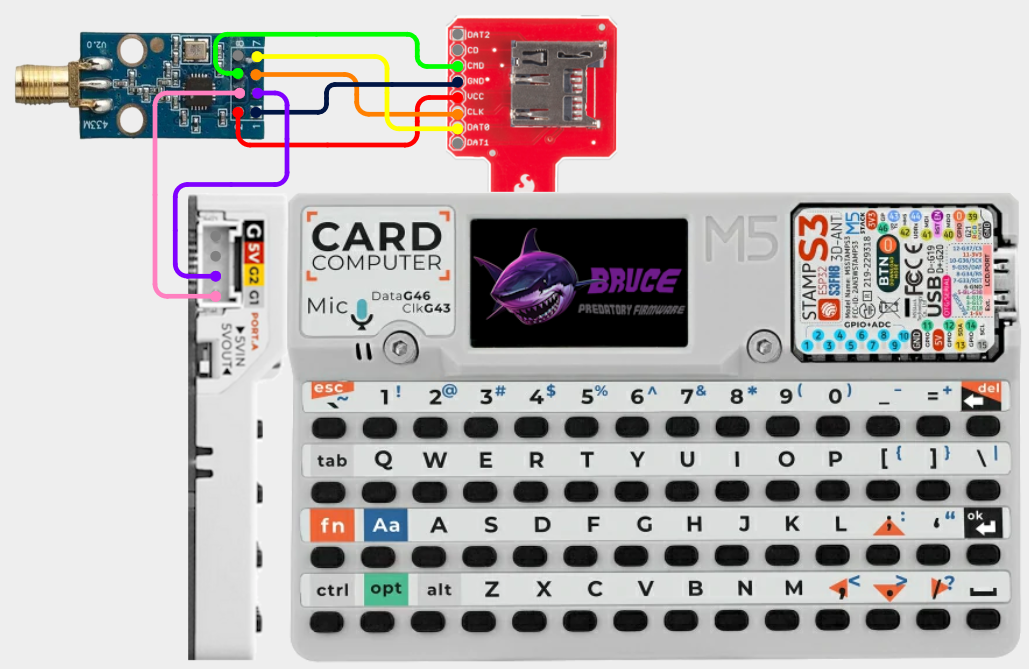
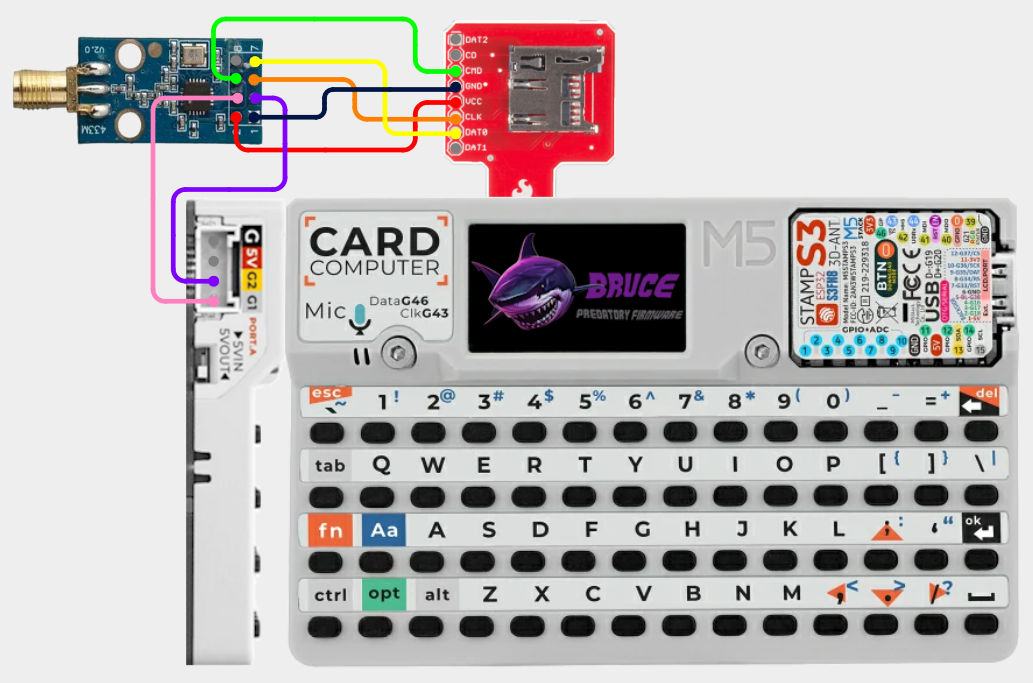
Add pins tables, split Cardputers and document shared/legacy SPI for M5Stick CC1101/NRF24

Changed region(s): [[0.0, 0.0, 0.9951, 1.0]]

diff --git a/docs/wiring-diagrams/m5stickc/cc1101-nrf24.md b/docs/wiring-diagrams/m5stickc/cc1101-nrf24.md
@@ -9,10 +9,65 @@ title: CC1101/NRF24
 * [NRF24](../../external-modules/nrf24.md#modules)
 
 
-## Wiring Diagram
+## Shared SPI
+
+!!! info
+    Please ensure you select Shared SPI
+
+    **CC1101:** `RF -> Config -> RF Module -> CC1101 (Shared SPI)`
+
+    **NRF24:** `NRF24 -> Config Pins -> NRF24 (Shared SPI)`
+
+### Pins
+
+| CC1101/NRF | M5StickC |
+| -: | - |
+| GND - 1 | GND |
+| VCC - 2 | 3V3 |
+| GDO0 - 3 | G32 |
+| CSN - 4 | G33 |
+| SCK - 5 | G0 |
+| MOSI - 6 | G26 |
+| MISO/GDO1 - 7 | G36/G25 |
+| DGO2 - 8 | Not Connected |
+
+
+### Wiring Diagram
+
+The diagram shows a CC1101, the wiring is the same for an NRF24.
+
+[View on Cirkit Designer](https://app.cirkitdesigner.com/project/27d869ec-fe6b-433d-9994-5d58fa3c5da3)
+
+![M5StickC - CC1101](m5stickc-cc1101-shared-spi.png){ width="400" }
+
+
+## Legacy SPI
+
+!!! info
+    Please ensure you select Legacy SPI
+
+    **CC1101:** `RF -> Config -> RF Module -> CC1101 (Legacy SPI)`
+
+    **NRF24:** `NRF24 -> Config Pins -> NRF24 (Legacy SPI)`
+
+### Pins
+
+| CC1101/NRF | M5StickC |
+| -: | - |
+| GND - 1 | GND |
+| VCC - 2 | 3V3 |
+| GDO0 - 3 | G36/G25 |
+| CSN - 4 | G26 |
+| SCK - 5 | G0 |
+| MOSI - 6 | G32 |
+| MISO/GDO1 - 7 | G33 |
+| DGO2 - 8 | Not Connected |
+
+
+### Wiring Diagram
 
 The diagram shows a CC1101, the wiring is the same for an NRF24.
 
 [View on Cirkit Designer](https://app.cirkitdesigner.com/project/1783b122-cb5d-41d4-96aa-12769733b86f)
 
-![M5StickC - CC1101](m5stickc-cc1101.png){ width="400" }
+![M5StickC - CC1101](m5stickc-cc1101-legacy-spi.png){ width="400" }

diff --git a/docs/wiring-diagrams/cardputer/gps.md b/docs/wiring-diagrams/cardputer/gps.md
@@ -7,17 +7,7 @@ title: GPS
 
 More information GPS modules can be found [here](../../external-modules/gps.md).
 
-
-### Cardputer
-
-**Default Pins:** RX=1 TX=2 follow wiring shown [here](#cardputer_1)
-
-
-### Cardputer Adv
-
-**Default Pins:** RX=15 TX=13 follow wiring shown [here](#cardputer-adv_1)
-
-**Alternative Pins:** RX=33 TX=32 follow wiring shown [here](#cardputer_1)
+**Default Pins:** RX=1 TX=2
 
 
 ## Items Needed
@@ -25,23 +15,20 @@ More information GPS modules can be found [here](../../external-modules/gps.md).
 * [GPS Module](../../external-modules/gps.md#modules)
 
 
-## Wiring Diagram
+## Pins
 
-### Cardputer
+| GPS | Cardputer |
+| -: | - |
+| VCC/5V - 1 | 5V |
+| RX - 2 | G2 |
+| TX - 3 | G1 |
+| GND - 4 | GND |
+
+
+## Wiring Diagram
 
 [View on Cirkit Designer](https://app.cirkitdesigner.com/project/70897d29-5d8f-46f0-995e-28ccf1f0e660)
 
 ![Cardputer - GPS](cardputer-gps.png){ width="400" }
 
 ![Cardputer - GPS](cardputer-gps.jpg){ width="400" }
-
-
-### Cardputer Adv
-
-This shows wiring for the [default pins](#cardputer-adv) you can wire up using the [alternative pins](#cardputer-adv) using the [Cardputer](#cardputer) diagram.
-
-[View on Cirkit Designer](https://app.cirkitdesigner.com/project/bb5fd016-9079-4cb4-a977-b6764aa94f67)
-
-![Cardputer Adv - GPS](cardputer-adv-gps.png){ width="400" }
-
-![Cardputer Adv - GPS](cardputer-adv-gps.jpg){ width="400" }

diff --git a/docs/wiring-diagrams/m5stickc/sd-card-and-cc1101-nrf24.md b/docs/wiring-diagrams/m5stickc/sd-card-and-cc1101-nrf24.md
@@ -14,13 +14,41 @@ title: SD Card and CC1101/NRF24
 * [NRF24](../../external-modules/nrf24.md#modules)
 
 
+## Pins
+
+!!! info
+    Please check the wiring diagram below for full details of connections
+
+
+| CC1101/NRF | M5StickC |
+| -: | - |
+| GND - 1 | GND |
+| VCC - 2 | 3V3 |
+| GDO0 - 3 | G32 |
+| CSN - 4 | G33 + Connection to resistor -> transistor (base) |
+| SCK - 5 | G0 |
+| MOSI - 6 | G26 |
+| MISO/GDO1 - 7 | G36/G25 |
+| DGO2 - 8 | Not Connected |
+
+| SD Card Module | M5StickC |
+| -: | - |
+| 3V3 - 1 | 3V3 |
+| CS - 2 | Transistor (collector) |
+| MOSI - 3 | G26 |
+| CLKK - 4 | G0 |
+| MISO - 5 | G36/G25 |
+| GND - 6 | GND |
+
+
 ## Wiring Diagram
 
 !!! info
+    Please ensure you select Shared SPI
 
-    This setup needs a change to the configuration to work:
+    **CC1101:** `RF -> Config -> RF Module -> CC1101 (Shared SPI)`
 
-    `RF -> Config -> CC1101 (Shared SPI)`
+    **NRF24:** `NRF24 -> Config Pins -> NRF24 (Shared SPI)`
 
 The diagram shows a CC1101, the wiring is the same for an NRF24.
 

diff --git a/docs/wiring-diagrams/cardputer-adv/gps.md b/docs/wiring-diagrams/cardputer-adv/gps.md
@@ -1,0 +1,38 @@
+---
+title: GPS
+---
+# Cardputer Adv - GPS
+
+## Configuration 
+
+More information GPS modules can be found [here](../../external-modules/gps.md).
+
+**Default Pins:** RX=15 TX=13
+
+**Alternative Pins:** RX=33 TX=32 follow wiring shown [here](../cardputer/gps.md#wiring-diagram)
+
+
+## Items Needed
+
+* [GPS Module](../../external-modules/gps.md#modules)
+
+
+## Pins
+
+| GPS | Cardputer Adv |
+| -: | - |
+| VCC/5V - 1 | 5V |
+| RX - 2 | G13 |
+| TX - 3 | G15 |
+| GND - 4 | GND |
+
+
+## Wiring Diagram
+
+This shows wiring for the [default pins](#configuration) you can wire up using the [alternative pins](#configuration) using the [Cardputer](../cardputer/gps.md#wiring-diagram) diagram.
+
+[View on Cirkit Designer](https://app.cirkitdesigner.com/project/bb5fd016-9079-4cb4-a977-b6764aa94f67)
+
+![Cardputer Adv - GPS](cardputer-adv-gps.png){ width="400" }
+
+![Cardputer Adv - GPS](cardputer-adv-gps.jpg){ width="400" }

diff --git a/docs/wiring-diagrams/cardputer-adv/cc1101-nrf24.md b/docs/wiring-diagrams/cardputer-adv/cc1101-nrf24.md
@@ -12,12 +12,12 @@ title: CC1101/NRF24
 
 ### Pins
 
-| CC1101/NRF | Cardputer / SD Sniffer |
+| CC1101/NRF | Cardputer Adv / SD Sniffer |
 | -: | - |
 | GND - 1 | GND (on SD Sniffer) |
 | VCC - 2 | VCC (on SD Sniffer) |
-| GDO0 - 3 | G2 (on Cardputer) |
-| CSN - 4 | G1 (on Cardputer) |
+| GDO0 - 3 | G2 (on Cardputer Adv) |
+| CSN - 4 | G1 (on Cardputer Adv) |
 | SCK - 5 | CLK (on SD Sniffer) |
 | MOSI - 6 | CMD (on SD Sniffer) |
 | MISO/GDO1 - 7 | DAT0 (on SD Sniffer) |
@@ -28,6 +28,6 @@ title: CC1101/NRF24
 
 The diagram shows a CC1101, the wiring is the same for an NRF24.
 
-[View on Cirkit Designer](https://app.cirkitdesigner.com/project/dbb49090-e599-40da-a76c-5990ae58dba7)
+[View on Cirkit Designer](https://app.cirkitdesigner.com/project/7f23b711-0403-4af8-9cf3-97d42bd1bedb)
 
-![Cardputer - CC1101](cardputer-cc1101.png){ width="400" }
+![Cardputer - CC1101](cardputer-adv-cc1101.png){ width="400" }

diff --git a/docs/wiring-diagrams/m5stickc/sd-card.md b/docs/wiring-diagrams/m5stickc/sd-card.md
@@ -8,6 +8,18 @@ title: SD Card
 * [SD Card Module](../../external-modules/sd-card-module.md#modules)
 
 
+## Pins
+
+| SD Card Module | M5StickC |
+| -: | - |
+| 3V3 - 1 | 3V3 |
+| CS - 2 | GND |
+| MOSI - 3 | G26 |
+| CLKK - 4 | G0 |
+| MISO - 5 | G36/G25 |
+| GND - 6 | GND |
+
+
 ## Wiring Diagram
 
 [View on Cirkit Designer](https://app.cirkitdesigner.com/project/65ad0ed2-9fc3-46c1-81ea-727cf2304d00)

diff --git a/docs/wiring-diagrams/m5stickc/gps.md b/docs/wiring-diagrams/m5stickc/gps.md
@@ -14,6 +14,16 @@ More information GPS modules can be found [here](../../external-modules/gps.md).
 * [GPS Module](../../external-modules/gps.md#modules)
 
 
+## Pins
+
+| GPS | M5StickC |
+| -: | - |
+| VCC/5V - 1 | 5V |
+| RX - 2 | G32 |
+| TX - 3 | G33 |
+| GND - 4 | GND |
+
+
 ## Wiring Diagram
 
 [View on Cirkit Designer](https://app.cirkitdesigner.com/project/02059b54-0813-4747-a074-ce20b39c8701)

diff --git a/docs/wiring-diagrams/t-embed/gps.md b/docs/wiring-diagrams/t-embed/gps.md
@@ -14,6 +14,16 @@ More information GPS modules can be found [here](../../external-modules/gps.md).
 * [GPS Module](../../external-modules/gps.md#modules)
 
 
+## Pins
+
+| GPS | T-Embed |
+| -: | - |
+| VCC/5V - 1 | VCC |
+| RX - 2 | TX |
+| TX - 3 | RX |
+| GND - 4 | GND |
+
+
 ## Wiring Diagram
 
 [View on Cirkit Designer](https://app.cirkitdesigner.com/project/df94217c-eeab-427a-9252-441953803c0e)

diff --git a/docs/wiring-diagrams/cyd/gps.md b/docs/wiring-diagrams/cyd/gps.md
@@ -14,6 +14,16 @@ More information GPS modules can be found [here](../../external-modules/gps.md).
 * [GPS Module](../../external-modules/gps.md#modules)
 
 
+## Pins
+
+| GPS | CYD |
+| -: | - |
+| VCC/5V - 1 | 5V |
+| RX - 2 | IO27 |
+| TX - 3 | IO22 |
+| GND - 4 | GND |
+
+
 ## Wiring Diagram
 
 [View on Cirkit Designer](https://app.cirkitdesigner.com/project/b4173555-8bd7-433e-bfd2-d098f986fb0c)

diff --git a/docs/wiring-diagrams/m5stickc/ch9329.md b/docs/wiring-diagrams/m5stickc/ch9329.md
@@ -8,6 +8,16 @@ title: CH9329 USB HID
 * [CH9329](../../external-modules/ch9329.md#modules)
 
 
+## Pins
+
+| CH9329 | M5StickC |
+| -: | - |
+| 5V - 1 | 5V |
+| TX - 2 | G33 |
+| RX - 3 | G32 |
+| GND - 4 | GND |
+
+
 ## Wiring Diagram
 
 [View on Cirkit Designer](https://app.cirkitdesigner.com/project/c23aead7-6c44-4bff-bf9b-48dbdfb5e5b4)
